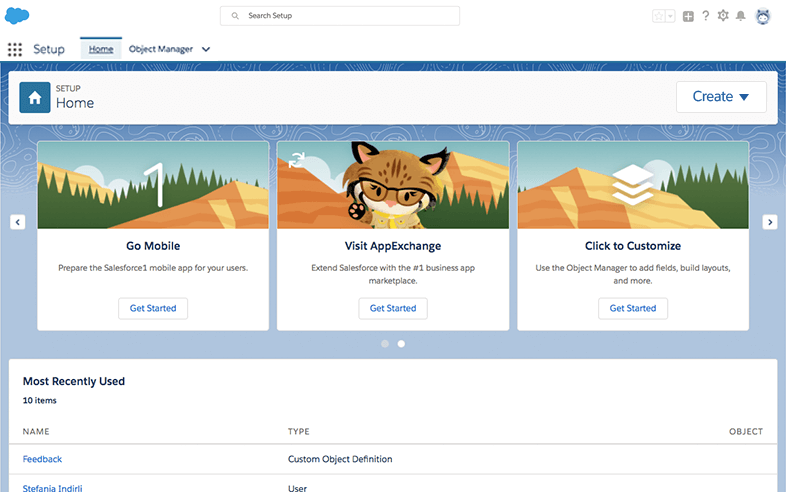
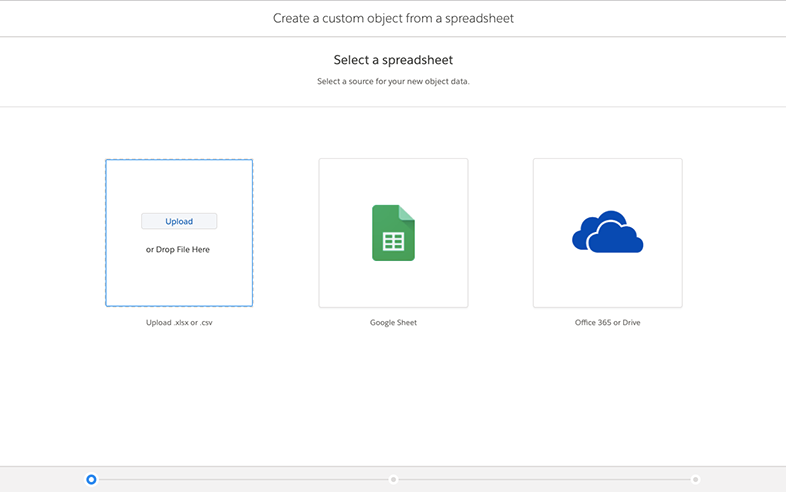
steps 1 and 2 done

diff --git a/src/partials/chapter-data/desktop.html b/src/partials/chapter-data/desktop.html
@@ -10,40 +10,17 @@
           </wz-step>
           <wz-step>
             <div class="step step-1">
-              <div class="click-box active" ng-click="ToggleButton()"></div>
-              <img src="../../assets/images/chapters/chapter-data/button.png" alt="custom object" class="custom-object" ng-class="{active:button.show}">
-              <div class="click-box-1" ng-class="{active:button.show}" ng-click="Next()"></div>
+              <div class="click-box active" ng-click="Next()"></div>
             </div>
           </wz-step>
           <wz-step>
-            <div class="step step-2" ng-class="{active:!label.active}">
-              <form class="form form-horizontal">
-                <div class="control-group">
-                  <label for="name" class="control-label">Label </label>
-                  <div class="controls">
-                    <input autocomplete="off" type="text" name="name" id="name" ng-model="customobj.name" class="text" maxlength="80" ng-class="{active:label.active}" li-autofocus="wizard.stateIndex == 2">
-                    <input autocomplete="off" type="text" name="plural-label" id="plural-label" ng-model="customobj.name" class="text plural-label" disabled>
-                    <input autocomplete="off" type="text" name="object-name" id="object-name" ng-model="customobj.name" class="text object-name" disabled>
-                    <input autocomplete="off" type="text" name="object-name" id="object-name" ng-model="customobj.name" class="text record-name" disabled>
-                  </div>
-                </div>
-              </form>
+            <div class="step step-2">
+              <div class="click-box active" ng-click="Next()"></div>
             </div>
           </wz-step>
           <wz-step>
             <div class="step step-3">
-              <form class="form form-horizontal">
-                <div class="control-group">
-                  <label for="name" class="control-label">Label </label>
-                  <div class="controls">
-                    <input autocomplete="off" type="text" name="name" id="name" ng-model="customobj.name" class="text" disabled>
-                    <input autocomplete="off" type="text" name="plural-label" id="plural-label" ng-model="customobj.name" class="text plural-label" disabled>
-                    <input autocomplete="off" type="text" name="object-name" id="object-name" ng-model="customobj.name" class="text object-name" disabled>
-                    <input autocomplete="off" type="text" name="object-name" id="object-name" ng-model="customobj.name" class="text record-name" disabled>
-                  </div>
-                </div>
-              </form>
-              <div class="click-box active" wz-next></div>
+              <div class="click-box active" ng-click="Next()"></div>
             </div>
           </wz-step>
           <wz-step success="true">

diff --git a/src/styles/_chapter-data.scss b/src/styles/_chapter-data.scss
@@ -12,72 +12,19 @@
 
   .step-1 {
     .click-box {
-      top: 81px;
-      left: 676px;
-      width: 90px;
-      height: 32px;
-    }
-    .click-box-1 {
-      top: 218px;
-      left: 620px;
-      width: 148px;
-      height: 30px;
-      opacity: 0;
-      pointer-events: none;
-      &.active {
-        opacity: 1;
-        cursor: pointer;
-        pointer-events: all;
-      }
-    }
-    .custom-object {
-      position: absolute;
-      top: 117px;
-      left: 618px;
-      opacity: 0;
-      pointer-events: none;
-      border-radius: 5px;
-      &.active {
-        opacity: 1;
-        cursor: pointer;
-        pointer-events: all;
-      }
+      top: 210px;
+      left: 139px;
+      width: 80px;
+      height: 22px;
     }
   }
 
   .step-2 {
-    height: 1040px !important;
-    transition: transform 1.7s linear 0.3s;
-    .form {
-      &.form-horizontal {
-        position: absolute;
-        top: 166px;
-        left: 1px;
-        .control-label {
-          width: 155px;
-          padding-top: 7px;
-          color: #000;
-        }
-        .controls {
-          input {
-            &.text {
-              width: 316px;
-            }
-            &.plural-label {
-              margin-top: 17px;
-            }
-            &.object-name {
-              margin-top: 104px;
-            }
-            &.record-name {
-              margin-top: 301px;
-            }
-          }
-        }
-      }
-    }
-    &.active {
-      transform: translateY(-549px);
+    .click-box {
+      top: 48px;
+      left: 210px;
+      width: 480px;
+      height: 30px;
     }
   }
 

diff --git a/src/controllers/chapter-data/drawer.controller.js b/src/controllers/chapter-data/drawer.controller.js
@@ -18,17 +18,27 @@ export default function ChapterDataDrawerController($scope, WizardHandler, TopNa
     Steps.clear();
     Steps.pop({
       number: 'one',
-      title: 'Click on the &lsquo;Create&rsquo; drop down'
+      title: 'Click &ldquo;Upload&rdquo; to bring your vehicle order data to the app.'
     });
 
     Steps.pop({
       number: 'two',
-      title: 'Name your object &lsquo;Customer Insights&rsquo;'
+      title: 'Select the &ldquo;Vehicles.xlsx&rdquo; file.'
     });
 
     Steps.pop({
       number: 'three',
-      title: 'Click &lsquo;Save&rsquo;'
+      title: 'Click &ldquo;Next&rdquo; to finish uploading.'
+    });
+
+    Steps.pop({
+      number: 'four',
+      title: 'Click row 1 to select the first vehicle and view the order details.'
+    });
+
+    Steps.pop({
+      number: 'five',
+      title: 'Click &ldquo;Add Sources&rdquo; to easily add data from another system.'
     });
 
     Hotspots.clear();

diff --git a/src/partials/chapter-data/drawer.html b/src/partials/chapter-data/drawer.html
@@ -1,13 +1,10 @@
 <div class="drawer-content chapter-data-drawer" ng-controller="ChapterDataController">
 
   <div class="col-lg-12 drawer-intro" ng-show="drawer.mode == 'intro'">
-    <h2>Build Your App’s Data Model</h2>
-    <p>To build an app in the Salesforce Platform, you start with a data model. ‘Objects’ are the building blocks of that data
-      model.
-    </p>
-    <p>First, we will create a Customer Insights object to bring important customer information right into your app. </p>
+    <h2>Import your data.</h2>
+    <p>First, let’s import all of last year’s vehicle sales data, which is currently stored in a spreadsheet.</p>
     <p class="continue">
-      <a class="btn btn-continue" ng-click="beginStory()">Next</a>
+      <a class="btn btn-continue" ng-click="beginStory()">Continue</a>
     </p>
   </div>
 

diff --git a/src/controllers/chapter-data/desktop.controller.js b/src/controllers/chapter-data/desktop.controller.js
@@ -1,6 +1,6 @@
 'use strict';
 
-export default function ChapterDataController($scope, Steps, Hotspots, WizardHandler, $timeout, TopNavbar) {
+export default function ChapterDataController($scope, Steps, Hotspots, WizardHandler, $timeout) {
   let _timeout;
   let _timeout2;
 
@@ -53,9 +53,6 @@ export default function ChapterDataController($scope, Steps, Hotspots, WizardHan
       Steps.activate('one');
     } else if (WizardHandler.wizard('monitor').currentStepNumber() === 2) {
       WizardHandler.wizard('monitor').next();
-      Hotspots.clear();
-      TopNavbar.HotspotsCount = 0;
-      TopNavbar.HotspotsEnabled = false;
       Steps.activate('two');
     } else if (WizardHandler.wizard('monitor').currentStepNumber() === 3) {
       WizardHandler.wizard('monitor').next();

diff --git a/src/styles/__forms.scss b/src/styles/__forms.scss
@@ -18,13 +18,13 @@
 
 @keyframes borderActive {
   0% {
-    box-shadow: 0 0 0 0 rgba(#00ffff, .2);
+    box-shadow: 0 0 0 0 rgba($color-marketing-cloud-orange, .2);
   }
   50% {
-    box-shadow: 0 0 0 8px rgba($color-salesforce-blue, .3);
+    box-shadow: 0 0 0 8px rgba($color-marketing-cloud-orange, 1);
   }
   100% {
-    box-shadow: 0 0 0 0 rgba(#00ffff, .2);
+    box-shadow: 0 0 0 0 rgba($color-marketing-cloud-orange, .2);
   }
 }
 

diff --git a/src/components/drawer/styles/_drawer.scss b/src/components/drawer/styles/_drawer.scss
@@ -68,7 +68,7 @@ $drawer-width: 410px;
       padding: 80px 46px 0;
 
       p.continue {
-        text-align: center;
+        text-align: left;
 
         a.btn-continue {
           margin-top:20px;

diff --git a/src/styles/__buttons.scss b/src/styles/__buttons.scss
@@ -1,7 +1,7 @@
 @import "_base";
 
 $button-font-size: 14px;
-$button-rounded-radius: 24px;
+$button-rounded-radius: 4px;
 
 button, a {
   &:hover, &:active, &:focus {
